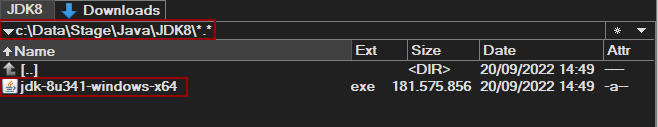
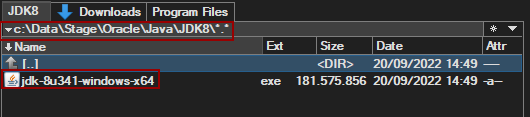
Finish InstallSOAQuickstart.md.

diff --git a/doc/soa_quickstart/InstallSOAQuickstart.md b/doc/soa_quickstart/InstallSOAQuickstart.md
@@ -12,8 +12,7 @@ Copy the download to a stage folder:
 
 <img src="images/OracleJava8StageFolder.png" width="658px" height="127px"/>
 
-The script expects the download in the _C:\Data\Stage\Java\JDK8_ folder. Which you can adapt of course.
-
+See table below for the expected stage folder location.
 
 ### Oracle SOA Quickstart 12.2.1.4
 The landing page for the download of SOA Quickstart can be found here: [SOASuite Download](https://www.oracle.com/nl/middleware/technologies/soasuite/downloads.html#). But it will direct you to the correct
@@ -27,6 +26,12 @@ This will direct you to the proper page in the _Oracle Software Delivery Cloud_:
 
 Select _Microsoft Windows_ under _Platforms_, and check the Oracle License Agreement. Then download the first two zips *Oracle Fusion Middleware 12c (12.2.1.4.0) SOA Quick Start for (Microsoft Windows x64 (64-bit))*, being _V983385-01_1of2.zip_ and _V983385-01_2of2.zip_ .
 
+Place the files in the stage folder:
+<img src="images/OracleSOAQSStageFolder.png" width="525px" height="111px"/>
+
+See table below for the expected stage folder location.
+
+## Run Install script
 The script expects the following files:
 | File |  Location | Remarks|
 |------|-----------|--------|
@@ -49,3 +54,12 @@ It targets the following locations:
 | JAVA_HOME | c:\Program Files\Java\jdk1.8.0_341 | If this location is not set, then it will try to install the Oracle JDK 8. And sets this variable. |
 | FMW_HOME | C:\oracle\JDeveloper\12214_SOAQS | Install location of JDeveloper/SOA Quickstart. Should be a location without spaces. |
 
+To run the script open an elevated command line (As Administrator):
+
+<img src="images/CommandPromptAsAdmin.png" width="826px" height="511px"/>
+
+Then navigate to the Script Location, in the folder where this Git Repo is cloned. And run installSoaQS.bat.
+
+    c:\Data\git\makker\scriptsandsnippets\scripts\windows\soa_qs>installSoaQS.bat
+    
+This might take a few minutes as it first checks and possibly installs the Oracle JDK 8, and then Oracle SOA Quickstart.
